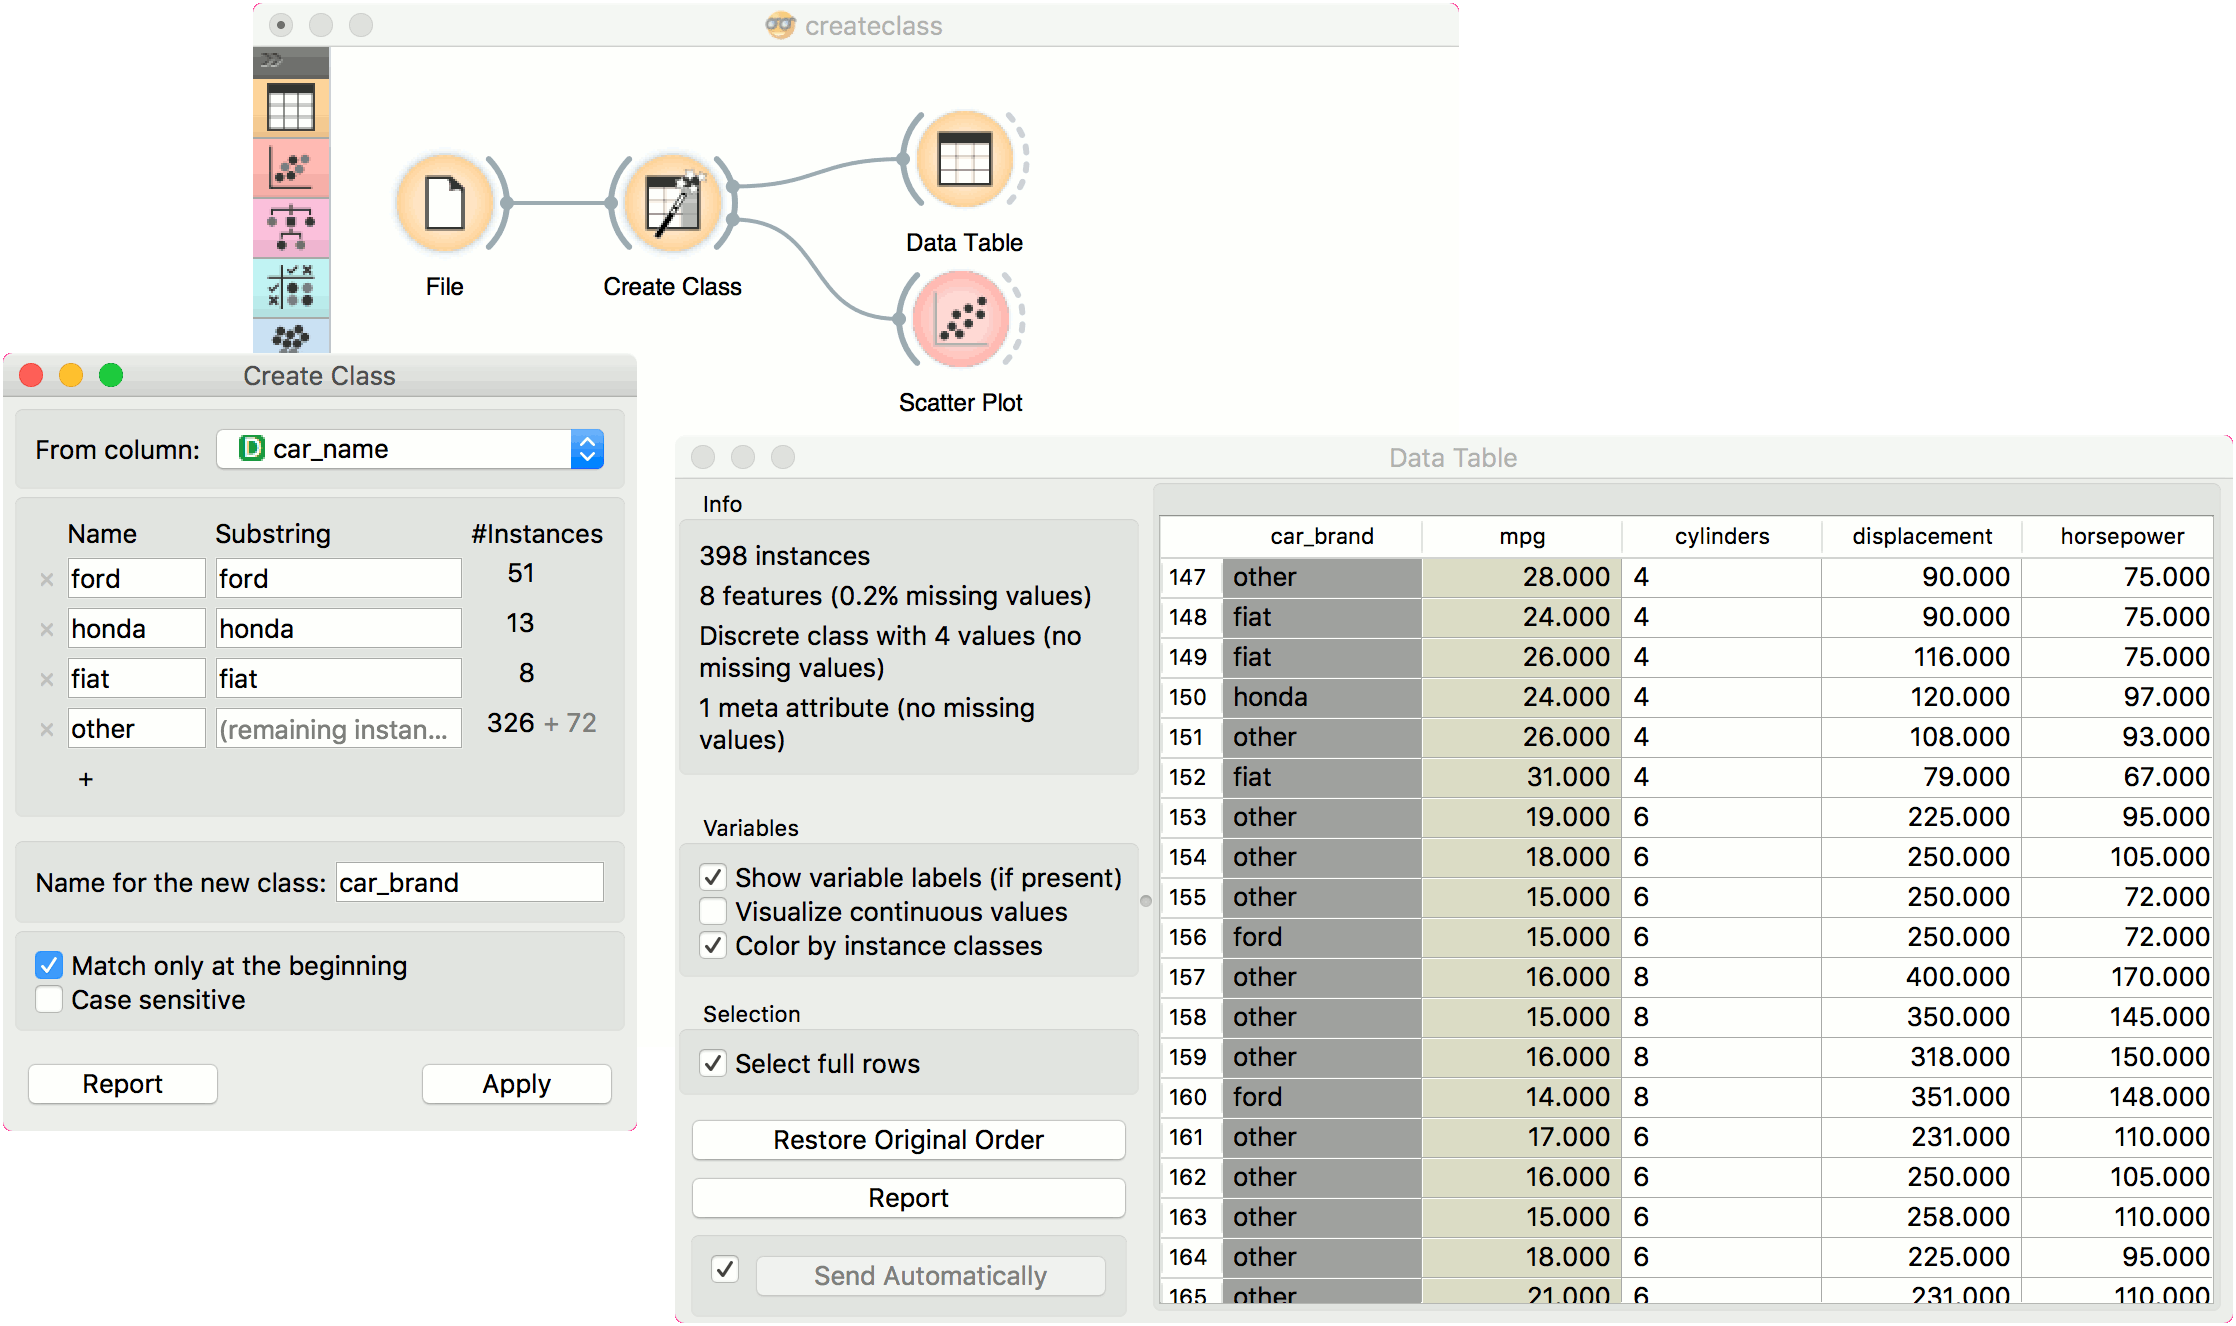
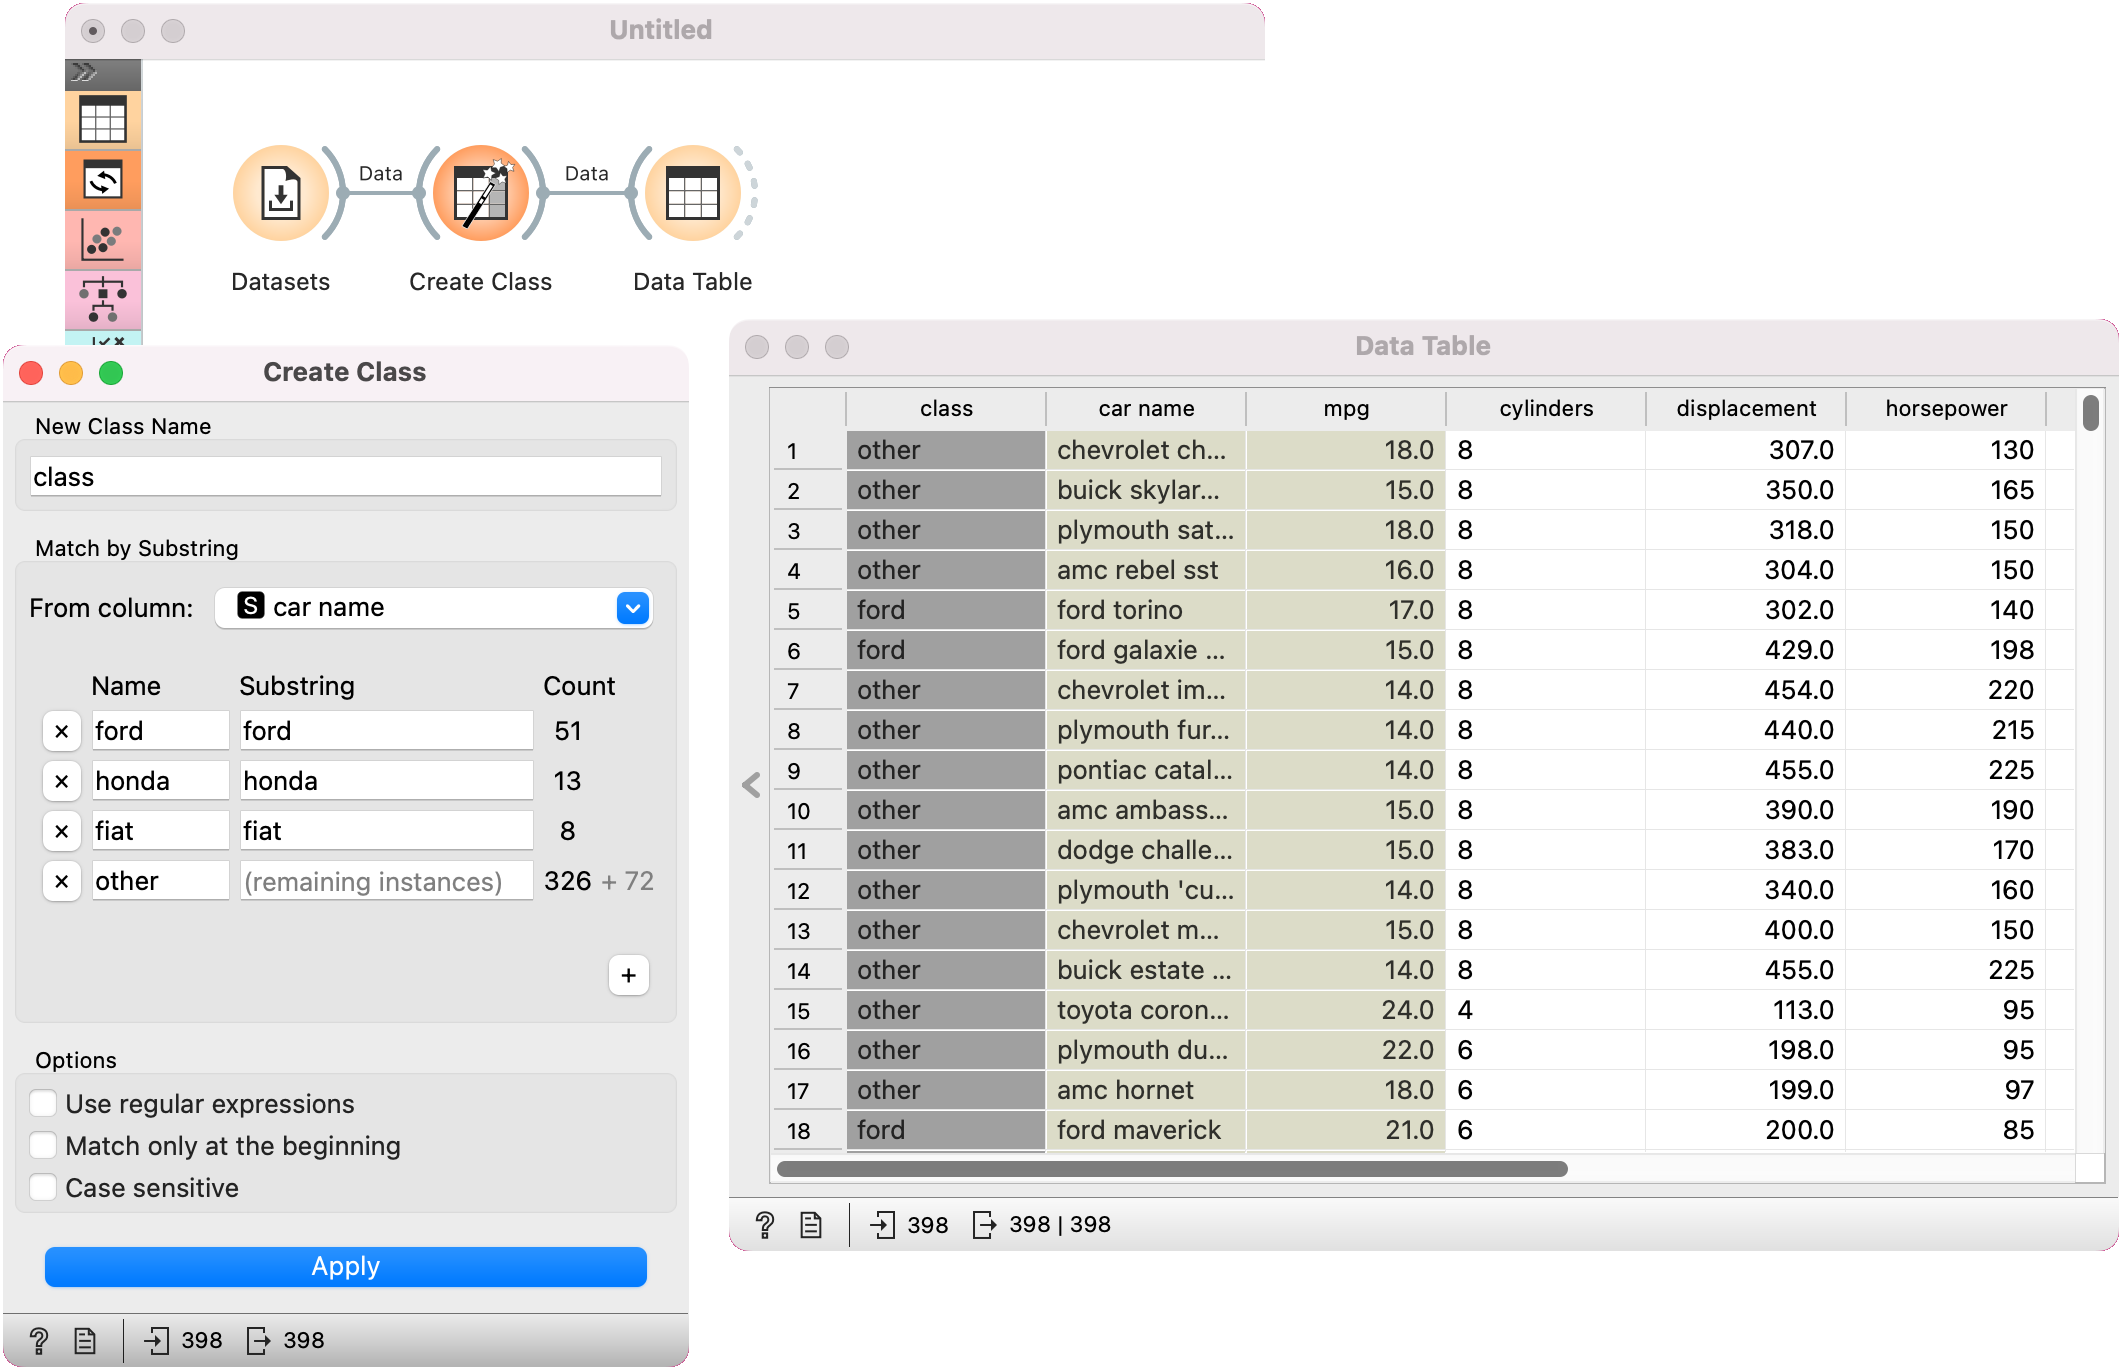
[DOC] Create Class

diff --git a/source/widgets/data/createclass.md b/source/widgets/data/createclass.md
@@ -1,7 +1,7 @@
 Create Class
 ============
 
-Create class attribute from a string attribute.
+Create class attribute from a string or categorical attribute.
 
 **Inputs**
 
@@ -11,28 +11,30 @@ Create class attribute from a string attribute.
 
 - Data: dataset with a new class variable
 
-**Create Class** creates a new class attribute from an existing discrete or string attribute. The widget matches the string value of the selected attribute and constructs a new user-defined value for matching instances.
+**Create Class** creates a new class attribute from an existing categorical or text attribute. The widget matches the string value of the selected attribute and constructs a new user-defined value for matching instances.
 
-![](images/CreateClass-stamped.png)
+![](images/CreateClass-stamped.png){width=50%}
 
-1. The attribute the new class is constructed from.
-2. Matching:
-   - Name: the name of the new class value
-   - Substring: regex-defined substring that will match the values from the above-defined attribute
-   - Instances: the number of instances matching the substring
-   - Press '+' to add a new class value
-3. Name of the new class column.
-4. Match only at the beginning will begin matching from the beginning of the string. Case sensitive will match by case, too.
-5. Produce a report.
-6. Press *Apply* to commit the results.
+1. Name of the new class column.
+2. Match by Substring:
+   *From column*: The attribute the new class is constructed from.
+   *Name*: the name of the new class value
+   *Substring*: substring that will match the values from the above-defined attribute
+   *Count*: the number of instances matching the substring
+   Press '+' to add a new class value
+3. Options:
+   - *Use regular expressions* to match by [regular expressions](https://en.wikipedia.org/wiki/Regular_expression).
+   - *Match only at the beginning* will begin matching from the beginning of the string.
+   - *Case sensitive* will match by case, too.
+4. Press *Apply* to commit the results.
 
 Example
 -------
 
-Here is a simple example with the *auto-mpg* dataset. Pass the data to **Create Class**. Select *car_name* as a column to create the new class from. Here, we wish to create new values that match the car brand. First, we type *ford* as the new value for the matching strings. Then we define the substring that will match the data instances. This means that all instances containing *ford* in their *car_name*, will now have a value *ford* in the new class column. Next, we define the same for *honda* and *fiat*. The widget will tell us how many instance are yet unmatched (remaining instances). We will name them *other*, but you can continue creating new values by adding a condition with '+'.
+Here is a simple example with the *auto-mpg* dataset. Pass the data to **Create Class**. Select *car name* as a column to create the new class from. Here, we wish to create new values that match the car brand.
 
-We named our new class column *car_brand* and we matched at the beginning of the string.
+First, we type *ford* as the new value for the matching strings. Then we define the substring that will match the data instances. This means that all instances containing *ford* in their *car name*, will now have a value *ford* in the new class column. We define the same for *honda* and *fiat*. The widget will tell us how many instance are yet unmatched (remaining instances). It says 326, plus the already defined 72. We will name the remaining instances *other*, but you can continue creating new values by adding a condition with '+'.
 
 ![](images/CreateClass-example.png)
 
-Finally, we can observe the new column in a [Data Table](../data/datatable.md) or use the value as color in the [Scatter Plot](../visualize/scatterplot.md).
+Finally, we can observe the new column in a [Data Table](../data/datatable.md).
